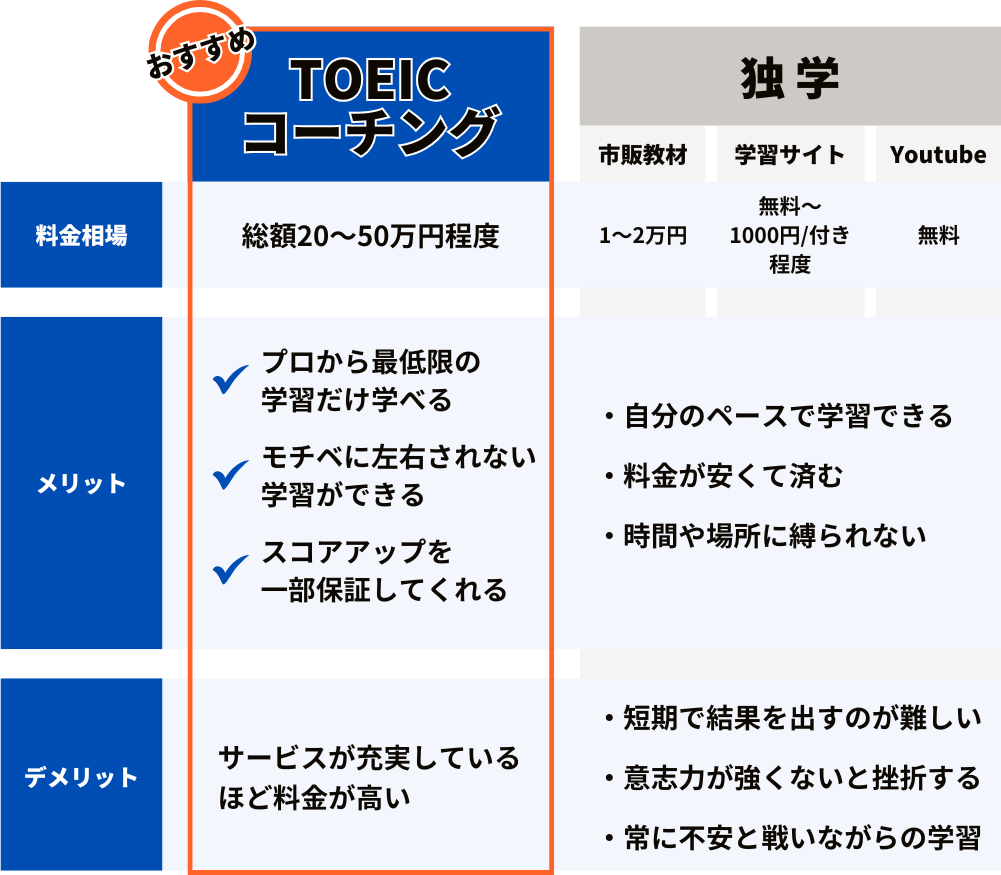
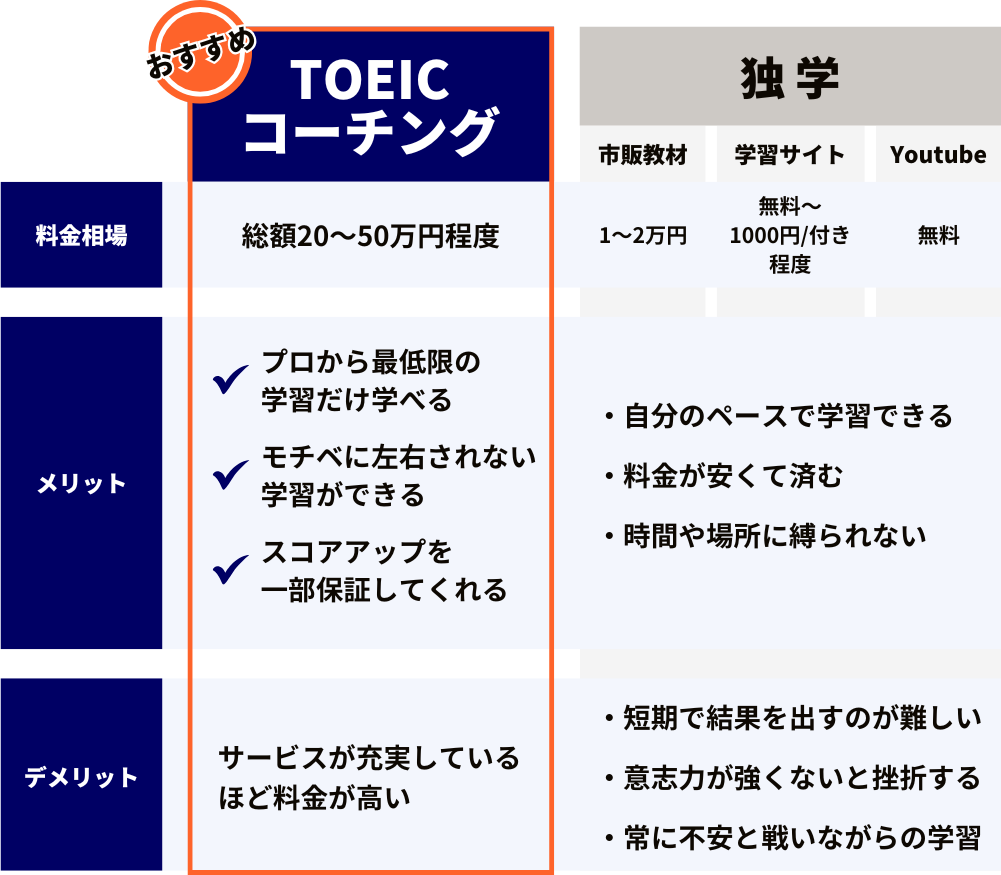
gitへ

diff --git a/index.html b/index.html
@@ -647,7 +647,7 @@
             <img class="banner" src="./images/studious_bnr300.jpg" alt="studio US&lt;br&gt;(スタジオアス)&lt;!--　動画編集　--&gt;" />
             <div class="flex">
               <p class="txt">
-                <span class="txt-red">《当ブログ限定》</span><span class="txt-marker">受講料最大30,000円割引</span>になるキャンペーン実施中!!<span class="txt-red">各種メディアで話題</span>のスクール!!
+                <span class="txt-red">《当サイト限定》</span><span class="txt-marker">受講料最大30,000円割引</span>になるクーポンをプレゼント中!!<span class="txt-red">各種メディアで話題</span>のコーチング!!
               </p>
               <p class="arrow"></p>
             </div>
@@ -682,8 +682,8 @@
                   </a>
                   <div class="type-list-inner-content-wrap-copy">
                     <span
-                      ><span class="txt-red">《当ブログ限定》</span><span class="txt-marker">受講料最大30,000円割引</span>になるキャンペーン実施中!!<span class="txt-red">各種メディアで話題</span
-                      >のスクール!!</span
+                      ><span class="txt-red">《当サイト限定》</span><span class="txt-marker">受講料最大30,000円割引</span>になるクーポンをプレゼント中!!<span class="txt-red">各種メディアで話題</span
+                      >のコーチング!!</span
                     >
                   </div>
                   <span class="type-list-inner-content-wrap-flex">
@@ -1051,7 +1051,7 @@
             <tr>
               <td>
                 <ul>
-                  <li class="box-topranking-cam"><span class="txt-red">《当ブログ限定》</span><span class="txt-marker">最大3万円割引</span>になるキャンペーン実施中!!</li>
+                  <li class="box-topranking-cam"><span class="txt-red">《当サイト限定》</span><span class="txt-marker">最大3万円割引</span>になるクーポンをプレゼント中!!</li>
                 </ul>
               </td>
               <td>
@@ -1184,7 +1184,7 @@
                     <ul class="simple-campain-wrapper-list">
                       <li class="simple-campain-wrapper-list-item">
                         <span class="simple-campain-wrapper-list-item-num">1</span>
-                        <div class="simple-campain-wrapper-list-item-txt"><span class="txt-red">《当ブログ限定》</span><span class="txt-marker">最大3万円割引</span>になるキャンペーン実施中!!</div>
+                        <div class="simple-campain-wrapper-list-item-txt"><span class="txt-red">《当サイト限定》</span><span class="txt-marker">最大3万円割引</span>になるクーポンをプレゼント中!!</div>
                       </li>
                     </ul>
                     <a
@@ -1276,7 +1276,7 @@
                       >ため、3ヶ月の受講期間が終わった後でも自律的なTOEIC学習を実現できるでしょう。<br /><br />
                     また、<span class="txt-marker">スコアアップ保証と全額返金保証があるのはテック英語だけ!!</span
                     ><br /><br />
-                    <span class="txt-red">当ブログ限定で最大30,000円の割引料金</span>で受講も可能！まずは気軽に無料コーチングを体験してみよう!
+                    <span class="txt-red">当サイト限定で最大30,000円の割引料金</span>で受講も可能！まずは気軽に無料コーチングを体験してみよう!
                   </p>
                 </div>
 

diff --git a/css/design.css b/css/design.css
@@ -1603,7 +1603,7 @@
               justify-content: center;
               align-items: center;
               text-align: center;
-              background-color: #004db4;
+              background-color: #000064;
               color: #fff;
               font-weight: bold;
               padding: .5rem; }
@@ -10813,7 +10813,7 @@ footer {
                 justify-content: center;
                 align-items: center;
                 text-align: center;
-                background-color: #004db4;
+                background-color: #000064;
                 color: #fff;
                 font-weight: bold;
                 padding: .5rem; }
@@ -10961,7 +10961,7 @@ footer {
         .mode .wrap .type-list-inner-ttl-big {
           font-size: 1.8rem; }
         .mode .wrap .type-list-inner-ttl-y {
-          background-color: #004db4;
+          background-color: #000064;
           color: #fff; }
         .mode .wrap .type-list-inner-ttl-g {
           background-color: #dbdbdb;
@@ -11157,7 +11157,7 @@ footer {
         padding: 0 .5rem;
         margin: 3rem 0 2rem; } }
     .mode .wrap .box-topranking th {
-      background-color: #004db4;
+      background-color: #000064;
       color: #fff;
       padding: .5rem; }
     .mode .wrap .box-topranking td {
@@ -11248,7 +11248,7 @@ footer {
         display: inline-block;
         width: .8rem;
         height: .8rem;
-        background: #004db4;
+        background: #000064;
         content: '';
         border-radius: 50px; }
         @media only screen and (max-width: 767px) {
@@ -11308,7 +11308,7 @@ footer {
             .mode .wrap .box-topranking-point-inner-txt {
               font-size: 1.1rem; } }
   .mode .rank2 .box {
-    border-top: 5px solid #004db4;
+    border-top: 5px solid #000064;
     background-color: #f3f6fd; }
     .mode .rank2 .box .tab-ttl-list-item-1 {
       background-color: #fef8f6;
@@ -11393,9 +11393,9 @@ footer {
             .mode .rank2 .box-tab .iconimg-3:before {
               left: .5rem; } }
   .mode .rank-simple .box .box-inner .detail-info-inner .point-ttl {
-    background-color: #004db4; }
+    background-color: #000064; }
   .mode .rank-simple .box .box-inner .detail-info-inner .point-inner-num {
-    background-color: #004db4; }
+    background-color: #000064; }
   .mode .rank-simple .box .box-inner .detail-info .spec-inner-wrapper dt {
     background-color: #e8e8e8; }
   .mode .rank-simple .box .box-inner .detail-info .simple-campain-ttl {
@@ -11407,23 +11407,23 @@ footer {
       background-color: #fff847;
       color: #0d0802; }
   .mode .rank-simple .box .box-inner .detail-info-ttl {
-    background-color: #004db4;
+    background-color: #000064;
     color: #fff; }
   .mode .bestsearch {
     background-color: #fcf2e8; }
     .mode .bestsearch-ttl {
-      color: #004db4; }
+      color: #000064; }
     .mode .bestsearch-form-wrap-sankaku:after {
       border-color: #fcf2e8 transparent transparent transparent; }
     .mode .bestsearch-form-submit input {
-      background: #004db4;
-      border: 1px solid #004db4;
+      background: #000064;
+      border: 1px solid #000064;
       color: #fff; }
       .mode .bestsearch-form-submit input:hover {
         background-color: #fff;
-        color: #004db4; }
+        color: #000064; }
     .mode .bestsearch select {
-      color: #004db4; }
+      color: #000064; }
 
 @keyframes mode-btn {
   0% {
